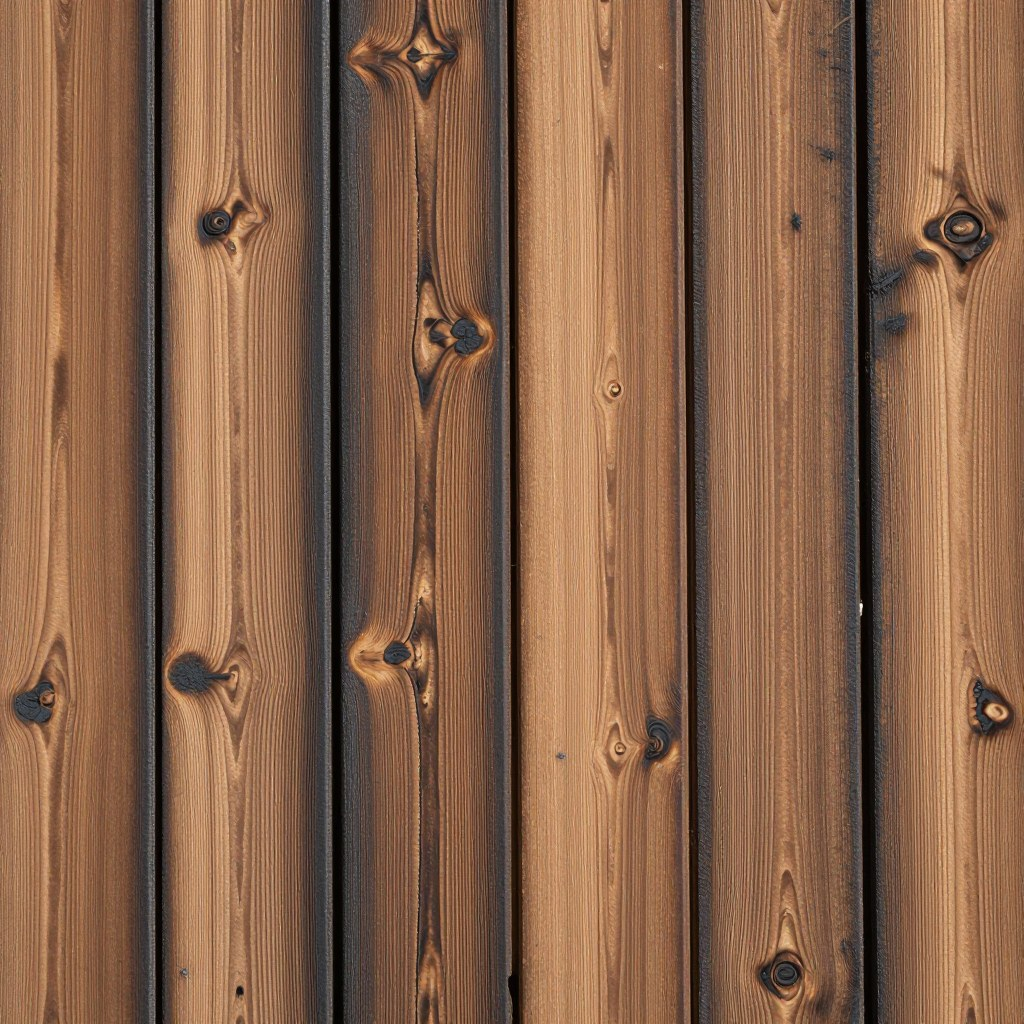
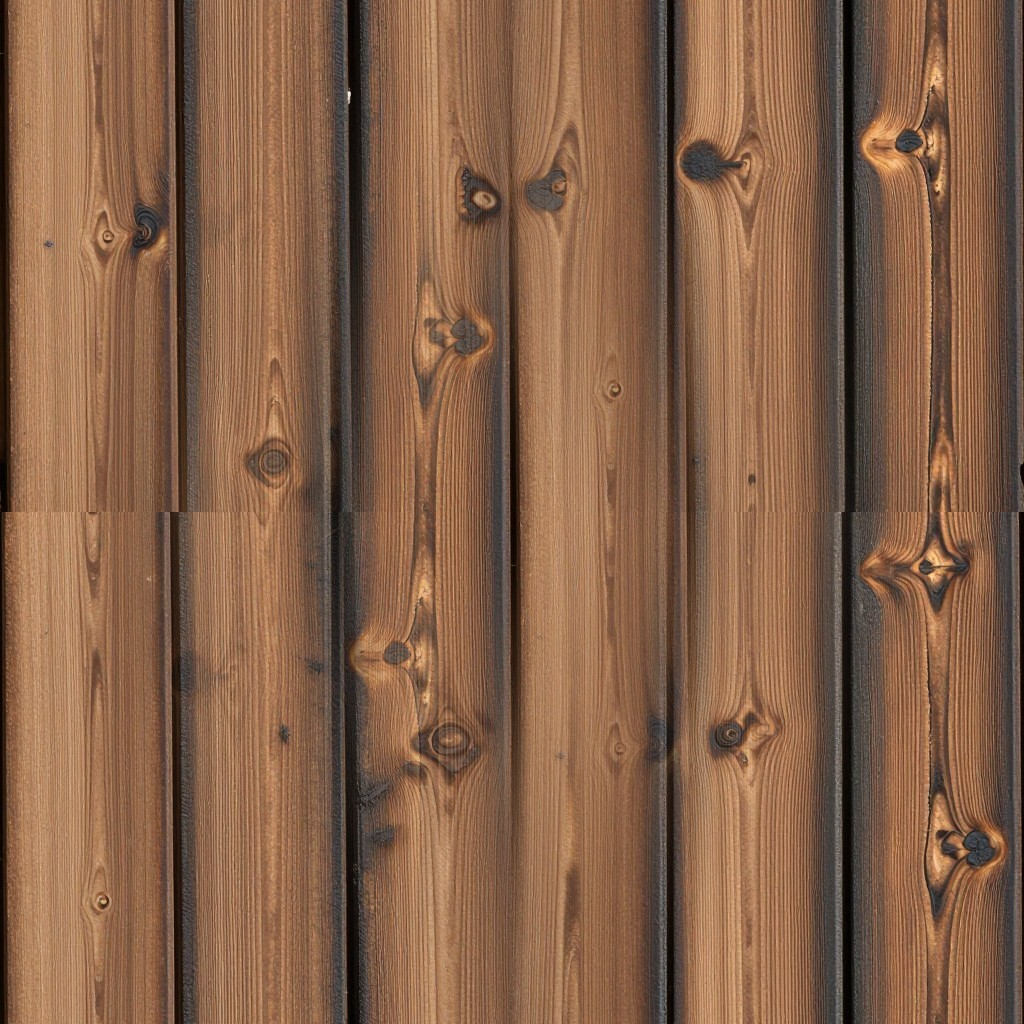
Ground: remove visible tile seams (flatten lighting, true tiling), finer texture scale

diff --git a/js/game.js b/js/game.js
@@ -470,7 +470,7 @@ export class Run {
     const vw = W / S, vh = H / S, x0 = camx - vw / 2 - 60, x1 = camx + vw / 2 + 60, y0 = camy - vh / 2 - 60, y1 = camy + vh / 2 + 60;
     // ground
     const tex = TEX[this.theme.ground] || TEX.tex_ground, gtex = !!(this.theme.ground && TEX[this.theme.ground]);
-    if (tex) { if (!this.pat) { this.pat = x.createPattern(tex, 'repeat'); this.pat.setTransform(new DOMMatrix().scale(0.5)); } x.fillStyle = this.pat; } else x.fillStyle = '#1b2220';
+    if (tex) { if (!this.pat) { this.pat = x.createPattern(tex, 'repeat'); this.pat.setTransform(new DOMMatrix().scale(0.32)); } x.fillStyle = this.pat; } else x.fillStyle = '#1b2220';
     x.fillRect(x0, y0, x1 - x0, y1 - y0);
     if (tex && this.q < 2) { x.globalCompositeOperation = 'lighter'; x.globalAlpha = 0.12; x.fillRect(x0, y0, x1 - x0, y1 - y0); x.globalAlpha = 1; x.globalCompositeOperation = 'source-over'; }
     if (this.theme.tint && !gtex) { x.globalCompositeOperation = 'multiply'; x.fillStyle = this.theme.tint; x.fillRect(x0, y0, x1 - x0, y1 - y0); x.globalCompositeOperation = 'source-over'; }
